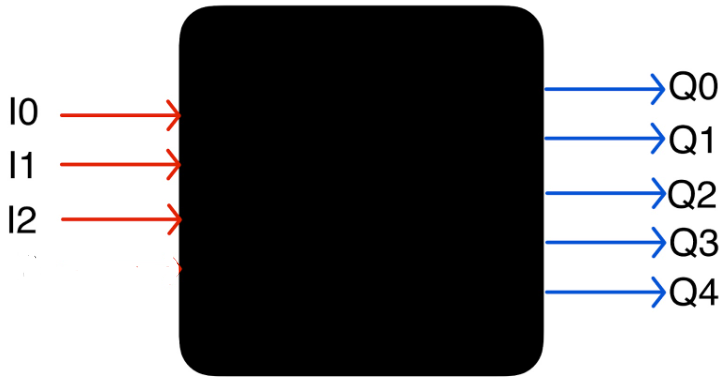
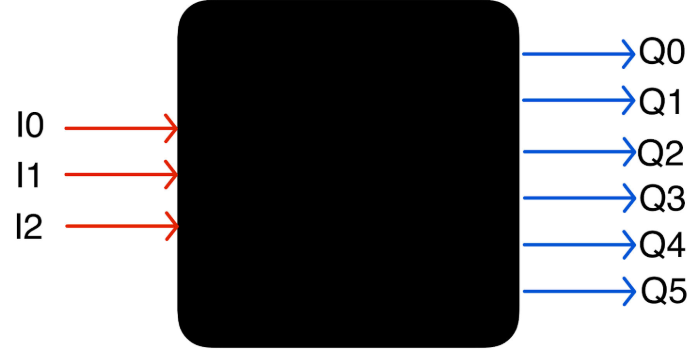
update

diff --git a/README.md b/README.md
@@ -5,22 +5,22 @@
 
 1.1 **Sistema de Caja Negra**
 
-
+![Caja negra](lab2%20imagenes/caja.png)
 
 **Entradas:**
 
-* I0: Botón de Paro
-* I1: Red Eléctrica
-* I2: Baterías
+* I0: Botón de Paro: (1 si está activado, 0 si no).
+* I1: Red Eléctrica: (1 si hay suministro, 0 si no).
+* I2: Baterías: (1 si están cargadas, 0 si no).
 
 **Salidas (Indicadores)**:
 
-* Q0: Indica el estado de paro
-* Q1: Relè/Energizador
-* Q2: Sensor energía
-* Q3: Rele contactor
-* Q4: Sensor baterias
-* Q5: Sensor red
+* Q0: Indica el estado de paro:  (1 si está activado, 0 si no).
+* Q1: Relè/Energizador: (1 si está energizado, 0 si no).
+* Q2: Sensor energía:(1 si hay energía disponible, 0 si no).
+* Q3: Rele contactor: (1 si está activado, 0 si no).
+* Q4: Sensor baterias: (1 si las baterías están cargadas, 0 si no).
+* Q5: Sensor red: (1 si la red eléctrica está disponible, 0 si no).
 
 1.2 **Tabla de Verdad**
 
